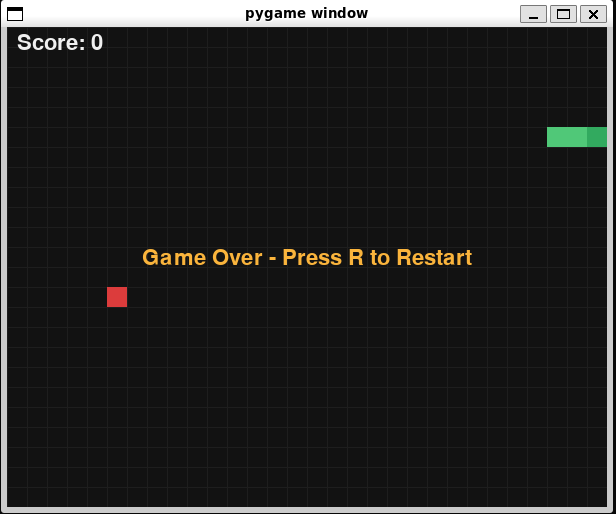
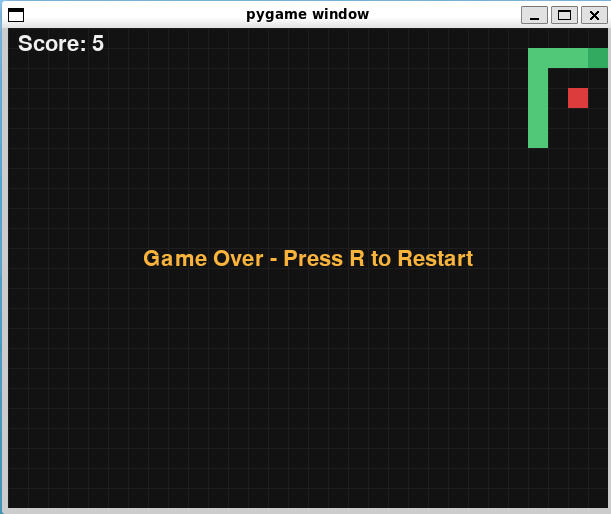
Add Snake game implementation with Pygame

diff --git a/snake-Claude.py b/snake-Claude.py
@@ -1,0 +1,182 @@
+import pygame
+import random
+import sys
+
+# Initialize Pygame
+pygame.init()
+
+# Game settings
+WINDOW_WIDTH = 800
+WINDOW_HEIGHT = 600
+GRID_SIZE = 20
+GRID_WIDTH = WINDOW_WIDTH // GRID_SIZE
+GRID_HEIGHT = WINDOW_HEIGHT // GRID_SIZE
+FPS = 10
+
+# Colors
+BLACK = (0, 0, 0)
+WHITE = (255, 255, 255)
+GREEN = (0, 255, 0)
+RED = (255, 0, 0)
+DARK_GREEN = (0, 200, 0)
+
+class Snake:
+    def __init__(self):
+        self.length = 1
+        self.positions = [((GRID_WIDTH // 2), (GRID_HEIGHT // 2))]
+        self.direction = random.choice([0, 1, 2, 3])
+        self.color = GREEN
+        self.score = 0
+
+    def get_head_position(self):
+        return self.positions[0]
+
+    def update(self):
+        cur = self.get_head_position()
+        x, y = self.direction_to_movement(self.direction)
+        new = (((cur[0] + x) % GRID_WIDTH), ((cur[1] + y) % GRID_HEIGHT))
+        
+        if len(self.positions) > 2 and new in self.positions[2:]:
+            return False  # Game over
+        else:
+            self.positions.insert(0, new)
+            if len(self.positions) > self.length:
+                self.positions.pop()
+        return True
+
+    def direction_to_movement(self, direction):
+        if direction == 0:  # UP
+            return (0, -1)
+        elif direction == 1:  # DOWN
+            return (0, 1)
+        elif direction == 2:  # LEFT
+            return (-1, 0)
+        else:  # RIGHT
+            return (1, 0)
+
+    def reset(self):
+        self.length = 1
+        self.positions = [((GRID_WIDTH // 2), (GRID_HEIGHT // 2))]
+        self.direction = random.choice([0, 1, 2, 3])
+        self.score = 0
+
+    def render(self, surface):
+        for i, p in enumerate(self.positions):
+            color = DARK_GREEN if i == 0 else self.color
+            rect = pygame.Rect((p[0] * GRID_SIZE, p[1] * GRID_SIZE), 
+                              (GRID_SIZE, GRID_SIZE))
+            pygame.draw.rect(surface, color, rect)
+            pygame.draw.rect(surface, BLACK, rect, 1)
+
+class Food:
+    def __init__(self):
+        self.position = (0, 0)
+        self.color = RED
+        self.randomize_position()
+
+    def randomize_position(self):
+        self.position = (random.randint(0, GRID_WIDTH - 1), 
+                        random.randint(0, GRID_HEIGHT - 1))
+
+    def render(self, surface):
+        rect = pygame.Rect((self.position[0] * GRID_SIZE, 
+                           self.position[1] * GRID_SIZE), 
+                          (GRID_SIZE, GRID_SIZE))
+        pygame.draw.rect(surface, self.color, rect)
+        pygame.draw.rect(surface, BLACK, rect, 1)
+
+class Game:
+    def __init__(self):
+        self.screen = pygame.display.set_mode((WINDOW_WIDTH, WINDOW_HEIGHT))
+        pygame.display.set_caption("贪吃蛇游戏")
+        self.clock = pygame.time.Clock()
+        self.font = pygame.font.Font(None, 36)
+        self.snake = Snake()
+        self.food = Food()
+        self.running = True
+        self.game_over = False
+
+    def handle_events(self):
+        for event in pygame.event.get():
+            if event.type == pygame.QUIT:
+                self.running = False
+            elif event.type == pygame.KEYDOWN:
+                if self.game_over:
+                    if event.key == pygame.K_SPACE:
+                        self.reset_game()
+                else:
+                    if event.key == pygame.K_UP and self.snake.direction != 1:
+                        self.snake.direction = 0
+                    elif event.key == pygame.K_DOWN and self.snake.direction != 0:
+                        self.snake.direction = 1
+                    elif event.key == pygame.K_LEFT and self.snake.direction != 3:
+                        self.snake.direction = 2
+                    elif event.key == pygame.K_RIGHT and self.snake.direction != 2:
+                        self.snake.direction = 3
+
+    def update(self):
+        if not self.game_over:
+            if not self.snake.update():
+                self.game_over = True
+                return
+
+            # Check if snake ate food
+            if self.snake.get_head_position() == self.food.position:
+                self.snake.length += 1
+                self.snake.score += 10
+                self.food.randomize_position()
+                
+                # Make sure food doesn't spawn on snake
+                while self.food.position in self.snake.positions:
+                    self.food.randomize_position()
+
+    def render(self):
+        self.screen.fill(BLACK)
+        
+        if not self.game_over:
+            self.snake.render(self.screen)
+            self.food.render(self.screen)
+            
+            # Display score
+            score_text = self.font.render(f"Score: {self.snake.score}", 
+                                         True, WHITE)
+            self.screen.blit(score_text, (10, 10))
+        else:
+            # Game over screen
+            game_over_text = self.font.render("GAME OVER", True, RED)
+            score_text = self.font.render(f"Final Score: {self.snake.score}", 
+                                         True, WHITE)
+            restart_text = self.font.render("Press SPACE to restart", 
+                                           True, WHITE)
+            
+            text_rect = game_over_text.get_rect(center=(WINDOW_WIDTH // 2, 
+                                                        WINDOW_HEIGHT // 2 - 50))
+            score_rect = score_text.get_rect(center=(WINDOW_WIDTH // 2, 
+                                                     WINDOW_HEIGHT // 2))
+            restart_rect = restart_text.get_rect(center=(WINDOW_WIDTH // 2, 
+                                                         WINDOW_HEIGHT // 2 + 50))
+            
+            self.screen.blit(game_over_text, text_rect)
+            self.screen.blit(score_text, score_rect)
+            self.screen.blit(restart_text, restart_rect)
+        
+        pygame.display.flip()
+
+    def reset_game(self):
+        self.snake.reset()
+        self.food.randomize_position()
+        self.game_over = False
+
+    def run(self):
+        while self.running:
+            self.handle_events()
+            self.update()
+            self.render()
+            self.clock.tick(FPS)
+        
+        pygame.quit()
+        sys.exit()
+
+if __name__ == "__main__":
+    game = Game()
+    game.run()

diff --git a/snake-GPT5.py b/snake-GPT5.py
@@ -1,0 +1,90 @@
+import pygame, sys, random
+
+CELL = 20
+GRID_W, GRID_H = 30, 24
+WIDTH, HEIGHT = CELL * GRID_W, CELL * GRID_H
+FPS = 12
+
+pygame.init()
+screen = pygame.display.set_mode((WIDTH, HEIGHT))
+clock = pygame.time.Clock()
+font = pygame.font.SysFont(None, 32)
+
+def draw_cell(pos, color):
+    pygame.draw.rect(screen, color, (*pos, CELL, CELL))
+
+def random_food(snake):
+    while True:
+        f = (random.randrange(0, GRID_W) * CELL,
+             random.randrange(0, GRID_H) * CELL)
+        if f not in snake:
+            return f
+
+def main():
+    direction = (CELL, 0)  # 初始向右
+    snake = [(CELL*5, CELL*5), (CELL*4, CELL*5), (CELL*3, CELL*5)]
+    food = random_food(snake)
+    score = 0
+    alive = True
+
+    while True:
+        for e in pygame.event.get():
+            if e.type == pygame.QUIT:
+                pygame.quit(); sys.exit()
+            if e.type == pygame.KEYDOWN and alive:
+                if e.key == pygame.K_UP and direction[1] == 0:
+                    direction = (0, -CELL)
+                elif e.key == pygame.K_DOWN and direction[1] == 0:
+                    direction = (0, CELL)
+                elif e.key == pygame.K_LEFT and direction[0] == 0:
+                    direction = (-CELL, 0)
+                elif e.key == pygame.K_RIGHT and direction[0] == 0:
+                    direction = (CELL, 0)
+            if e.type == pygame.KEYDOWN and not alive:
+                if e.key == pygame.K_r:
+                    return main()
+
+        if alive:
+            head_x, head_y = snake[0]
+            new_head = (head_x + direction[0], head_y + direction[1])
+
+            # 碰撞检测
+            if (new_head[0] < 0 or new_head[0] >= WIDTH or
+                new_head[1] < 0 or new_head[1] >= HEIGHT or
+                new_head in snake):
+                alive = False
+            else:
+                snake.insert(0, new_head)
+                if new_head == food:
+                    score += 1
+                    food = random_food(snake)
+                else:
+                    snake.pop()
+
+        screen.fill((18, 18, 18))
+        # 画网格(可选)
+        for x in range(0, WIDTH, CELL):
+            pygame.draw.line(screen, (30,30,30), (x,0), (x,HEIGHT))
+        for y in range(0, HEIGHT, CELL):
+            pygame.draw.line(screen, (30,30,30), (0,y), (WIDTH,y))
+
+        # 食物
+        draw_cell(food, (220, 60, 60))
+        # 蛇
+        for i, seg in enumerate(snake):
+            c = (80,200,120) if i else (50,170,95)
+            draw_cell(seg, c)
+
+        # 分数
+        txt = font.render(f"Score: {score}", True, (240,240,240))
+        screen.blit(txt, (10, 5))
+
+        if not alive:
+            over = font.render("Game Over - Press R to Restart", True, (250,180,60))
+            screen.blit(over, (WIDTH//2 - over.get_width()//2, HEIGHT//2 - 20))
+
+        pygame.display.flip()
+        clock.tick(FPS)
+
+if __name__ == "__main__":
+    main()
